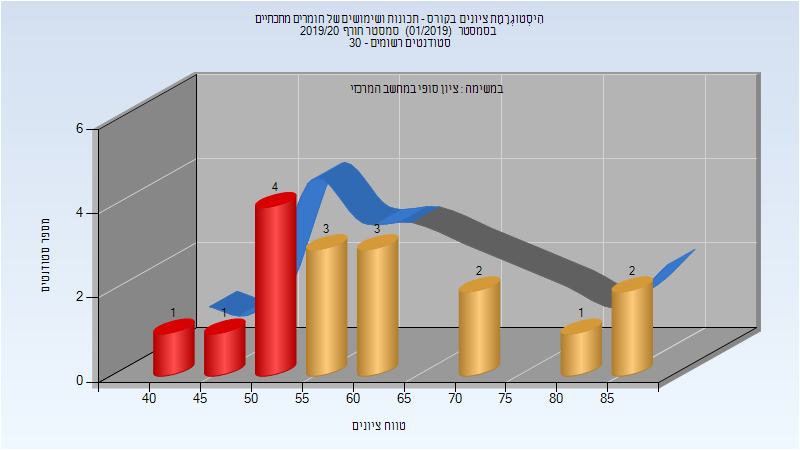
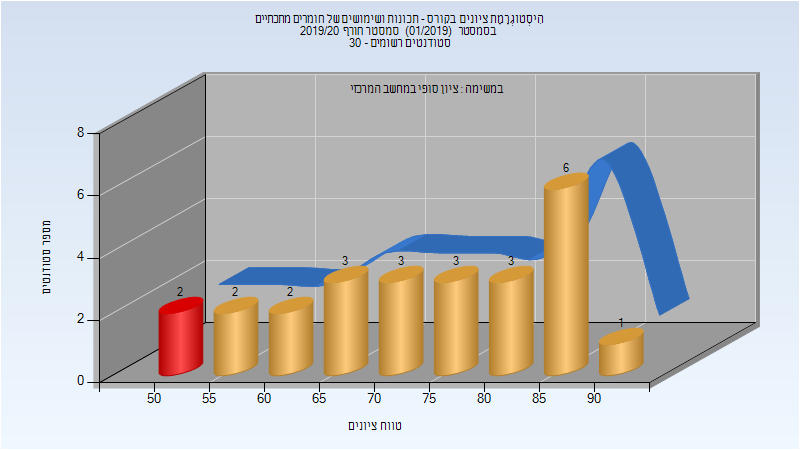
Deploy michael-maltsev/technion-histograms to github.com/michael-maltsev/technion-histograms.git:gh-pages

diff --git a/315037/index.html b/315037/index.html
@@ -481,6 +481,32 @@
 </tr>
 </tbody>
 </table>
+<h3>סופי מועד ב'</h3>
+<p><img src="201901/Final_B.png" alt="201901 Final_B" /></p>
+<table>
+<thead>
+<tr>
+<th>סטודנטים</th>
+<th>עברו/נכשלו</th>
+<th>אחוז עוברים</th>
+<th>ציון מינימלי</th>
+<th>ציון מקסימלי</th>
+<th>ממוצע</th>
+<th>חציון</th>
+</tr>
+</thead>
+<tbody>
+<tr>
+<td>17</td>
+<td>16/1</td>
+<td>94</td>
+<td>51</td>
+<td>91</td>
+<td>75.647</td>
+<td>78</td>
+</tr>
+</tbody>
+</table>
 <h3>סופי</h3>
 <p><img src="201901/Finals.png" alt="201901 Finals" /></p>
 <table>
@@ -497,13 +523,13 @@
 </thead>
 <tbody>
 <tr>
-<td>17</td>
-<td>11/6</td>
-<td>65</td>
-<td>43</td>
-<td>87</td>
-<td>61.706</td>
-<td>59</td>
+<td>25</td>
+<td>23/2</td>
+<td>92</td>
+<td>51</td>
+<td>91</td>
+<td>74</td>
+<td>78</td>
 </tr>
 </tbody>
 </table>

diff --git a/315037/README.md b/315037/README.md
@@ -145,11 +145,19 @@
 | ---- | ---- | ---- | ---- | ---- | ---- | ---- |
 | 17 | 11/6 | 65 | 43 | 87 | 61.706 | 59 |
 
+### סופי מועד ב'
+
+![201901 Final_B](201901/Final_B.png)
+
+| סטודנטים | עברו/נכשלו | אחוז עוברים | ציון מינימלי | ציון מקסימלי | ממוצע | חציון |
+| ---- | ---- | ---- | ---- | ---- | ---- | ---- |
+| 17 | 16/1 | 94 | 51 | 91 | 75.647 | 78 |
+
 ### סופי
 
 ![201901 Finals](201901/Finals.png)
 
 | סטודנטים | עברו/נכשלו | אחוז עוברים | ציון מינימלי | ציון מקסימלי | ממוצע | חציון |
 | ---- | ---- | ---- | ---- | ---- | ---- | ---- |
-| 17 | 11/6 | 65 | 43 | 87 | 61.706 | 59 |
+| 25 | 23/2 | 92 | 51 | 91 | 74 | 78 |
 
